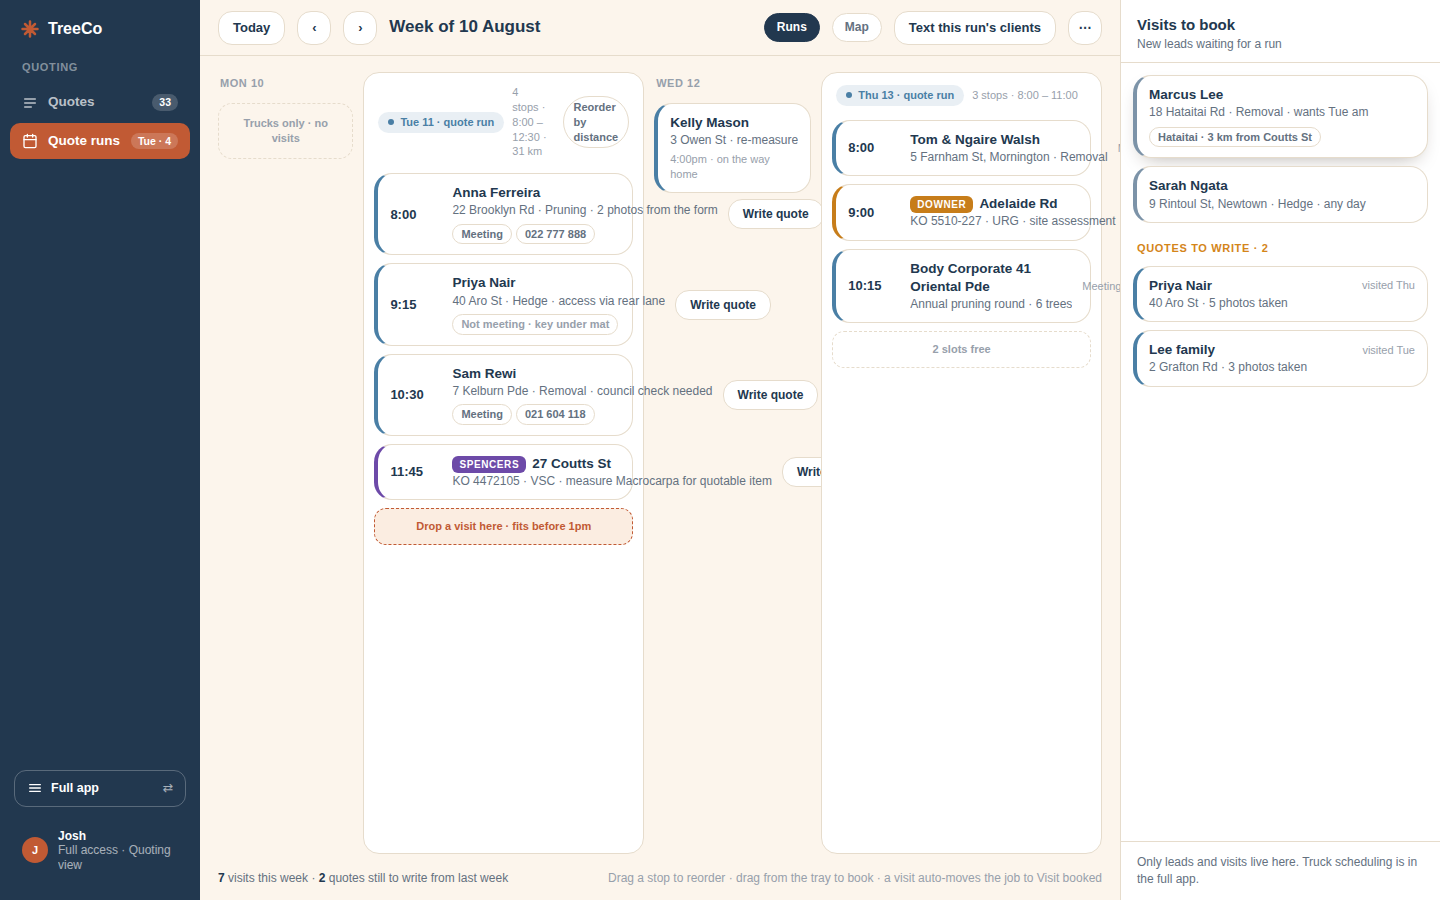
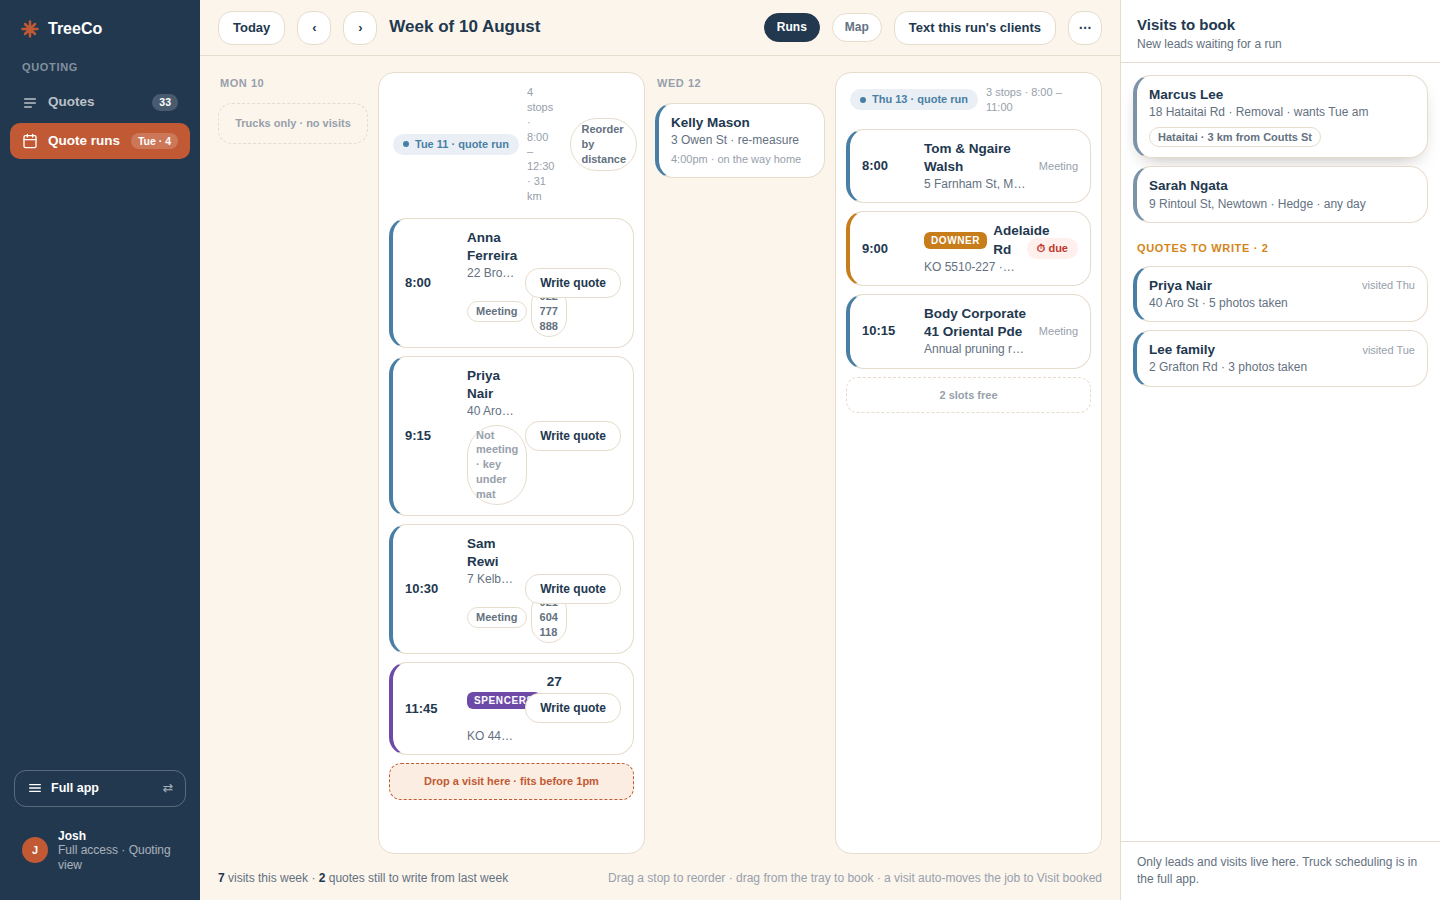
Redesign: widen quote-run columns
Claude-Session: https://claude.ai/code/session_01JFxbZHgkHtkpRGcMA3SJdT

diff --git a/docs/redesign/TreeCo-Workflow-Redesign.html b/docs/redesign/TreeCo-Workflow-Redesign.html
@@ -680,26 +680,26 @@ font-family:ui-rounded,'SF Pro Rounded',-apple-system,BlinkMacSystemFont,'Segoe 
       <span class="btn">Text this run's clients</span>
       <span class="btn" style="width:34px;padding:0">⋯</span>
     </div>
-    <div style="padding:16px 18px;display:grid;grid-template-columns:repeat(6,1fr);gap:10px;flex:1;min-height:0">
+    <div style="padding:16px 18px;display:grid;grid-template-columns:150px minmax(0,1fr) 170px minmax(0,1fr);gap:10px;flex:1;min-height:0">
       <!-- Mon -->
       <div class="col" style="gap:8px"><div class="gh" style="border:0;background:none;padding:4px 2px">Mon 10</div><div style="border:1.5px dashed var(--line);border-radius:14px;padding:12px;text-align:center;color:var(--ink-3);font-size:11px;font-weight:600">Trucks only · no visits</div></div>
       <!-- Tue run -->
-      <div class="col" style="gap:8px;grid-column:span 2;background:#fff;border:1px solid var(--line);border-radius:16px;padding:10px">
+      <div class="col" style="gap:8px;background:#fff;border:1px solid var(--line);border-radius:16px;padding:10px">
         <div class="row" style="padding:2px 4px 6px"><span class="pill" style="background:#4A7FA51F;color:var(--s-visit)"><i></i>Tue 11 · quote run</span><span class="faint" style="font-size:11px">4 stops · 8:00 – 12:30 · 31 km</span><span class="grow"></span><span class="chip" style="padding:3px 10px;font-size:11px">Reorder by distance</span></div>
-        <div class="card" style="padding:10px 12px;display:grid;grid-template-columns:52px 1fr auto;gap:10px;align-items:center;border-left:4px solid var(--s-visit)"><div class="tn" style="font-weight:800;font-size:13px">8:00</div><div><div class="ttl">Anna Ferreira</div><div class="sub">22 Brooklyn Rd · Pruning · 2 photos from the form</div><div class="row" style="margin-top:5px;gap:4px"><span class="chip" style="padding:2px 8px;font-size:11px">Meeting</span><span class="chip" style="padding:2px 8px;font-size:11px">022 777 888</span></div></div><span class="btn" style="height:30px;font-size:12px">Write quote</span></div>
-        <div class="card" style="padding:10px 12px;display:grid;grid-template-columns:52px 1fr auto;gap:10px;align-items:center;border-left:4px solid var(--s-visit)"><div class="tn" style="font-weight:800;font-size:13px">9:15</div><div><div class="ttl">Priya Nair</div><div class="sub">40 Aro St · Hedge · access via rear lane</div><div class="row" style="margin-top:5px;gap:4px"><span class="chip" style="padding:2px 8px;font-size:11px;color:var(--ink-3)">Not meeting · key under mat</span></div></div><span class="btn" style="height:30px;font-size:12px">Write quote</span></div>
-        <div class="card" style="padding:10px 12px;display:grid;grid-template-columns:52px 1fr auto;gap:10px;align-items:center;border-left:4px solid var(--s-visit)"><div class="tn" style="font-weight:800;font-size:13px">10:30</div><div><div class="ttl">Sam Rewi</div><div class="sub">7 Kelburn Pde · Removal · council check needed</div><div class="row" style="margin-top:5px;gap:4px"><span class="chip" style="padding:2px 8px;font-size:11px">Meeting</span><span class="chip" style="padding:2px 8px;font-size:11px">021 604 118</span></div></div><span class="btn" style="height:30px;font-size:12px">Write quote</span></div>
-        <div class="card sp" style="padding:10px 12px;display:grid;grid-template-columns:52px 1fr auto;gap:10px;align-items:center;border-left:4px solid #6D4AA8"><div class="tn" style="font-weight:800;font-size:13px">11:45</div><div><div class="row" style="gap:6px"><span class="cat sp">Spencers</span><span class="ttl">27 Coutts St</span></div><div class="sub">KO 4472105 · VSC · measure Macrocarpa for quotable item</div></div><span class="btn" style="height:30px;font-size:12px">Write quote</span></div>
+        <div class="card" style="padding:10px 12px;display:grid;grid-template-columns:52px minmax(0,1fr) auto;gap:10px;align-items:center;border-left:4px solid var(--s-visit)"><div class="tn" style="font-weight:800;font-size:13px">8:00</div><div><div class="ttl">Anna Ferreira</div><div class="sub">22 Brooklyn Rd · Pruning · 2 photos from the form</div><div class="row" style="margin-top:5px;gap:4px"><span class="chip" style="padding:2px 8px;font-size:11px">Meeting</span><span class="chip" style="padding:2px 8px;font-size:11px">022 777 888</span></div></div><span class="btn" style="height:30px;font-size:12px">Write quote</span></div>
+        <div class="card" style="padding:10px 12px;display:grid;grid-template-columns:52px minmax(0,1fr) auto;gap:10px;align-items:center;border-left:4px solid var(--s-visit)"><div class="tn" style="font-weight:800;font-size:13px">9:15</div><div><div class="ttl">Priya Nair</div><div class="sub">40 Aro St · Hedge · access via rear lane</div><div class="row" style="margin-top:5px;gap:4px"><span class="chip" style="padding:2px 8px;font-size:11px;color:var(--ink-3)">Not meeting · key under mat</span></div></div><span class="btn" style="height:30px;font-size:12px">Write quote</span></div>
+        <div class="card" style="padding:10px 12px;display:grid;grid-template-columns:52px minmax(0,1fr) auto;gap:10px;align-items:center;border-left:4px solid var(--s-visit)"><div class="tn" style="font-weight:800;font-size:13px">10:30</div><div><div class="ttl">Sam Rewi</div><div class="sub">7 Kelburn Pde · Removal · council check needed</div><div class="row" style="margin-top:5px;gap:4px"><span class="chip" style="padding:2px 8px;font-size:11px">Meeting</span><span class="chip" style="padding:2px 8px;font-size:11px">021 604 118</span></div></div><span class="btn" style="height:30px;font-size:12px">Write quote</span></div>
+        <div class="card sp" style="padding:10px 12px;display:grid;grid-template-columns:52px minmax(0,1fr) auto;gap:10px;align-items:center;border-left:4px solid #6D4AA8"><div class="tn" style="font-weight:800;font-size:13px">11:45</div><div><div class="row" style="gap:6px"><span class="cat sp">Spencers</span><span class="ttl">27 Coutts St</span></div><div class="sub">KO 4472105 · VSC · measure Macrocarpa for quotable item</div></div><span class="btn" style="height:30px;font-size:12px">Write quote</span></div>
         <div style="border:1.5px dashed var(--terra);background:var(--terra-wash);border-radius:12px;padding:10px;text-align:center;color:var(--terra);font-size:11px;font-weight:700">Drop a visit here · fits before 1pm</div>
       </div>
       <!-- Wed -->
       <div class="col" style="gap:8px"><div class="gh" style="border:0;background:none;padding:4px 2px">Wed 12</div><div class="card" style="padding:10px 12px;border-left:4px solid var(--s-visit)"><div class="ttl">Kelly Mason</div><div class="sub">3 Owen St · re-measure</div><div class="faint" style="font-size:11px;margin-top:4px">4:00pm · on the way home</div></div></div>
       <!-- Thu run -->
-      <div class="col" style="gap:8px;grid-column:span 2;background:#fff;border:1px solid var(--line);border-radius:16px;padding:10px">
+      <div class="col" style="gap:8px;background:#fff;border:1px solid var(--line);border-radius:16px;padding:10px">
         <div class="row" style="padding:2px 4px 6px"><span class="pill" style="background:#4A7FA51F;color:var(--s-visit)"><i></i>Thu 13 · quote run</span><span class="faint" style="font-size:11px">3 stops · 8:00 – 11:00</span></div>
-        <div class="card" style="padding:10px 12px;display:grid;grid-template-columns:52px 1fr auto;gap:10px;align-items:center;border-left:4px solid var(--s-visit)"><div class="tn" style="font-weight:800;font-size:13px">8:00</div><div><div class="ttl">Tom &amp; Ngaire Walsh</div><div class="sub">5 Farnham St, Mornington · Removal</div></div><span class="faint" style="font-size:11px">Meeting</span></div>
-        <div class="card dw" style="padding:10px 12px;display:grid;grid-template-columns:52px 1fr auto;gap:10px;align-items:center;border-left:4px solid #C77D1A"><div class="tn" style="font-weight:800;font-size:13px">9:00</div><div><div class="row" style="gap:6px"><span class="cat dw">Downer</span><span class="ttl">Adelaide Rd</span></div><div class="sub">KO 5510-227 · URG · site assessment</div></div><span class="pill" style="background:#FFF0EE;color:#C0392B">⏱ due</span></div>
-        <div class="card" style="padding:10px 12px;display:grid;grid-template-columns:52px 1fr auto;gap:10px;align-items:center;border-left:4px solid var(--s-visit)"><div class="tn" style="font-weight:800;font-size:13px">10:15</div><div><div class="ttl">Body Corporate 41 Oriental Pde</div><div class="sub">Annual pruning round · 6 trees</div></div><span class="faint" style="font-size:11px">Meeting</span></div>
+        <div class="card" style="padding:10px 12px;display:grid;grid-template-columns:52px minmax(0,1fr) auto;gap:10px;align-items:center;border-left:4px solid var(--s-visit)"><div class="tn" style="font-weight:800;font-size:13px">8:00</div><div><div class="ttl">Tom &amp; Ngaire Walsh</div><div class="sub">5 Farnham St, Mornington · Removal</div></div><span class="faint" style="font-size:11px">Meeting</span></div>
+        <div class="card dw" style="padding:10px 12px;display:grid;grid-template-columns:52px minmax(0,1fr) auto;gap:10px;align-items:center;border-left:4px solid #C77D1A"><div class="tn" style="font-weight:800;font-size:13px">9:00</div><div><div class="row" style="gap:6px"><span class="cat dw">Downer</span><span class="ttl">Adelaide Rd</span></div><div class="sub">KO 5510-227 · URG · site assessment</div></div><span class="pill" style="background:#FFF0EE;color:#C0392B">⏱ due</span></div>
+        <div class="card" style="padding:10px 12px;display:grid;grid-template-columns:52px minmax(0,1fr) auto;gap:10px;align-items:center;border-left:4px solid var(--s-visit)"><div class="tn" style="font-weight:800;font-size:13px">10:15</div><div><div class="ttl">Body Corporate 41 Oriental Pde</div><div class="sub">Annual pruning round · 6 trees</div></div><span class="faint" style="font-size:11px">Meeting</span></div>
         <div style="border:1.5px dashed var(--line);border-radius:12px;padding:10px;text-align:center;color:var(--ink-3);font-size:11px;font-weight:600">2 slots free</div>
       </div>
     </div>

diff --git a/docs/redesign/mockups/QuoteRuns.html b/docs/redesign/mockups/QuoteRuns.html
@@ -18,26 +18,26 @@
       <span class="btn">Text this run's clients</span>
       <span class="btn" style="width:34px;padding:0">⋯</span>
     </div>
-    <div style="padding:16px 18px;display:grid;grid-template-columns:repeat(6,1fr);gap:10px;flex:1;min-height:0">
+    <div style="padding:16px 18px;display:grid;grid-template-columns:150px minmax(0,1fr) 170px minmax(0,1fr);gap:10px;flex:1;min-height:0">
       <!-- Mon -->
       <div class="col" style="gap:8px"><div class="gh" style="border:0;background:none;padding:4px 2px">Mon 10</div><div style="border:1.5px dashed var(--line);border-radius:14px;padding:12px;text-align:center;color:var(--ink-3);font-size:11px;font-weight:600">Trucks only · no visits</div></div>
       <!-- Tue run -->
-      <div class="col" style="gap:8px;grid-column:span 2;background:#fff;border:1px solid var(--line);border-radius:16px;padding:10px">
+      <div class="col" style="gap:8px;background:#fff;border:1px solid var(--line);border-radius:16px;padding:10px">
         <div class="row" style="padding:2px 4px 6px"><span class="pill" style="background:#4A7FA51F;color:var(--s-visit)"><i></i>Tue 11 · quote run</span><span class="faint" style="font-size:11px">4 stops · 8:00 – 12:30 · 31 km</span><span class="grow"></span><span class="chip" style="padding:3px 10px;font-size:11px">Reorder by distance</span></div>
-        <div class="card" style="padding:10px 12px;display:grid;grid-template-columns:52px 1fr auto;gap:10px;align-items:center;border-left:4px solid var(--s-visit)"><div class="tn" style="font-weight:800;font-size:13px">8:00</div><div><div class="ttl">Anna Ferreira</div><div class="sub">22 Brooklyn Rd · Pruning · 2 photos from the form</div><div class="row" style="margin-top:5px;gap:4px"><span class="chip" style="padding:2px 8px;font-size:11px">Meeting</span><span class="chip" style="padding:2px 8px;font-size:11px">022 777 888</span></div></div><span class="btn" style="height:30px;font-size:12px">Write quote</span></div>
-        <div class="card" style="padding:10px 12px;display:grid;grid-template-columns:52px 1fr auto;gap:10px;align-items:center;border-left:4px solid var(--s-visit)"><div class="tn" style="font-weight:800;font-size:13px">9:15</div><div><div class="ttl">Priya Nair</div><div class="sub">40 Aro St · Hedge · access via rear lane</div><div class="row" style="margin-top:5px;gap:4px"><span class="chip" style="padding:2px 8px;font-size:11px;color:var(--ink-3)">Not meeting · key under mat</span></div></div><span class="btn" style="height:30px;font-size:12px">Write quote</span></div>
-        <div class="card" style="padding:10px 12px;display:grid;grid-template-columns:52px 1fr auto;gap:10px;align-items:center;border-left:4px solid var(--s-visit)"><div class="tn" style="font-weight:800;font-size:13px">10:30</div><div><div class="ttl">Sam Rewi</div><div class="sub">7 Kelburn Pde · Removal · council check needed</div><div class="row" style="margin-top:5px;gap:4px"><span class="chip" style="padding:2px 8px;font-size:11px">Meeting</span><span class="chip" style="padding:2px 8px;font-size:11px">021 604 118</span></div></div><span class="btn" style="height:30px;font-size:12px">Write quote</span></div>
-        <div class="card sp" style="padding:10px 12px;display:grid;grid-template-columns:52px 1fr auto;gap:10px;align-items:center;border-left:4px solid #6D4AA8"><div class="tn" style="font-weight:800;font-size:13px">11:45</div><div><div class="row" style="gap:6px"><span class="cat sp">Spencers</span><span class="ttl">27 Coutts St</span></div><div class="sub">KO 4472105 · VSC · measure Macrocarpa for quotable item</div></div><span class="btn" style="height:30px;font-size:12px">Write quote</span></div>
+        <div class="card" style="padding:10px 12px;display:grid;grid-template-columns:52px minmax(0,1fr) auto;gap:10px;align-items:center;border-left:4px solid var(--s-visit)"><div class="tn" style="font-weight:800;font-size:13px">8:00</div><div><div class="ttl">Anna Ferreira</div><div class="sub">22 Brooklyn Rd · Pruning · 2 photos from the form</div><div class="row" style="margin-top:5px;gap:4px"><span class="chip" style="padding:2px 8px;font-size:11px">Meeting</span><span class="chip" style="padding:2px 8px;font-size:11px">022 777 888</span></div></div><span class="btn" style="height:30px;font-size:12px">Write quote</span></div>
+        <div class="card" style="padding:10px 12px;display:grid;grid-template-columns:52px minmax(0,1fr) auto;gap:10px;align-items:center;border-left:4px solid var(--s-visit)"><div class="tn" style="font-weight:800;font-size:13px">9:15</div><div><div class="ttl">Priya Nair</div><div class="sub">40 Aro St · Hedge · access via rear lane</div><div class="row" style="margin-top:5px;gap:4px"><span class="chip" style="padding:2px 8px;font-size:11px;color:var(--ink-3)">Not meeting · key under mat</span></div></div><span class="btn" style="height:30px;font-size:12px">Write quote</span></div>
+        <div class="card" style="padding:10px 12px;display:grid;grid-template-columns:52px minmax(0,1fr) auto;gap:10px;align-items:center;border-left:4px solid var(--s-visit)"><div class="tn" style="font-weight:800;font-size:13px">10:30</div><div><div class="ttl">Sam Rewi</div><div class="sub">7 Kelburn Pde · Removal · council check needed</div><div class="row" style="margin-top:5px;gap:4px"><span class="chip" style="padding:2px 8px;font-size:11px">Meeting</span><span class="chip" style="padding:2px 8px;font-size:11px">021 604 118</span></div></div><span class="btn" style="height:30px;font-size:12px">Write quote</span></div>
+        <div class="card sp" style="padding:10px 12px;display:grid;grid-template-columns:52px minmax(0,1fr) auto;gap:10px;align-items:center;border-left:4px solid #6D4AA8"><div class="tn" style="font-weight:800;font-size:13px">11:45</div><div><div class="row" style="gap:6px"><span class="cat sp">Spencers</span><span class="ttl">27 Coutts St</span></div><div class="sub">KO 4472105 · VSC · measure Macrocarpa for quotable item</div></div><span class="btn" style="height:30px;font-size:12px">Write quote</span></div>
         <div style="border:1.5px dashed var(--terra);background:var(--terra-wash);border-radius:12px;padding:10px;text-align:center;color:var(--terra);font-size:11px;font-weight:700">Drop a visit here · fits before 1pm</div>
       </div>
       <!-- Wed -->
       <div class="col" style="gap:8px"><div class="gh" style="border:0;background:none;padding:4px 2px">Wed 12</div><div class="card" style="padding:10px 12px;border-left:4px solid var(--s-visit)"><div class="ttl">Kelly Mason</div><div class="sub">3 Owen St · re-measure</div><div class="faint" style="font-size:11px;margin-top:4px">4:00pm · on the way home</div></div></div>
       <!-- Thu run -->
-      <div class="col" style="gap:8px;grid-column:span 2;background:#fff;border:1px solid var(--line);border-radius:16px;padding:10px">
+      <div class="col" style="gap:8px;background:#fff;border:1px solid var(--line);border-radius:16px;padding:10px">
         <div class="row" style="padding:2px 4px 6px"><span class="pill" style="background:#4A7FA51F;color:var(--s-visit)"><i></i>Thu 13 · quote run</span><span class="faint" style="font-size:11px">3 stops · 8:00 – 11:00</span></div>
-        <div class="card" style="padding:10px 12px;display:grid;grid-template-columns:52px 1fr auto;gap:10px;align-items:center;border-left:4px solid var(--s-visit)"><div class="tn" style="font-weight:800;font-size:13px">8:00</div><div><div class="ttl">Tom &amp; Ngaire Walsh</div><div class="sub">5 Farnham St, Mornington · Removal</div></div><span class="faint" style="font-size:11px">Meeting</span></div>
-        <div class="card dw" style="padding:10px 12px;display:grid;grid-template-columns:52px 1fr auto;gap:10px;align-items:center;border-left:4px solid #C77D1A"><div class="tn" style="font-weight:800;font-size:13px">9:00</div><div><div class="row" style="gap:6px"><span class="cat dw">Downer</span><span class="ttl">Adelaide Rd</span></div><div class="sub">KO 5510-227 · URG · site assessment</div></div><span class="pill" style="background:#FFF0EE;color:#C0392B">⏱ due</span></div>
-        <div class="card" style="padding:10px 12px;display:grid;grid-template-columns:52px 1fr auto;gap:10px;align-items:center;border-left:4px solid var(--s-visit)"><div class="tn" style="font-weight:800;font-size:13px">10:15</div><div><div class="ttl">Body Corporate 41 Oriental Pde</div><div class="sub">Annual pruning round · 6 trees</div></div><span class="faint" style="font-size:11px">Meeting</span></div>
+        <div class="card" style="padding:10px 12px;display:grid;grid-template-columns:52px minmax(0,1fr) auto;gap:10px;align-items:center;border-left:4px solid var(--s-visit)"><div class="tn" style="font-weight:800;font-size:13px">8:00</div><div><div class="ttl">Tom &amp; Ngaire Walsh</div><div class="sub">5 Farnham St, Mornington · Removal</div></div><span class="faint" style="font-size:11px">Meeting</span></div>
+        <div class="card dw" style="padding:10px 12px;display:grid;grid-template-columns:52px minmax(0,1fr) auto;gap:10px;align-items:center;border-left:4px solid #C77D1A"><div class="tn" style="font-weight:800;font-size:13px">9:00</div><div><div class="row" style="gap:6px"><span class="cat dw">Downer</span><span class="ttl">Adelaide Rd</span></div><div class="sub">KO 5510-227 · URG · site assessment</div></div><span class="pill" style="background:#FFF0EE;color:#C0392B">⏱ due</span></div>
+        <div class="card" style="padding:10px 12px;display:grid;grid-template-columns:52px minmax(0,1fr) auto;gap:10px;align-items:center;border-left:4px solid var(--s-visit)"><div class="tn" style="font-weight:800;font-size:13px">10:15</div><div><div class="ttl">Body Corporate 41 Oriental Pde</div><div class="sub">Annual pruning round · 6 trees</div></div><span class="faint" style="font-size:11px">Meeting</span></div>
         <div style="border:1.5px dashed var(--line);border-radius:12px;padding:10px;text-align:center;color:var(--ink-3);font-size:11px;font-weight:600">2 slots free</div>
       </div>
     </div>
